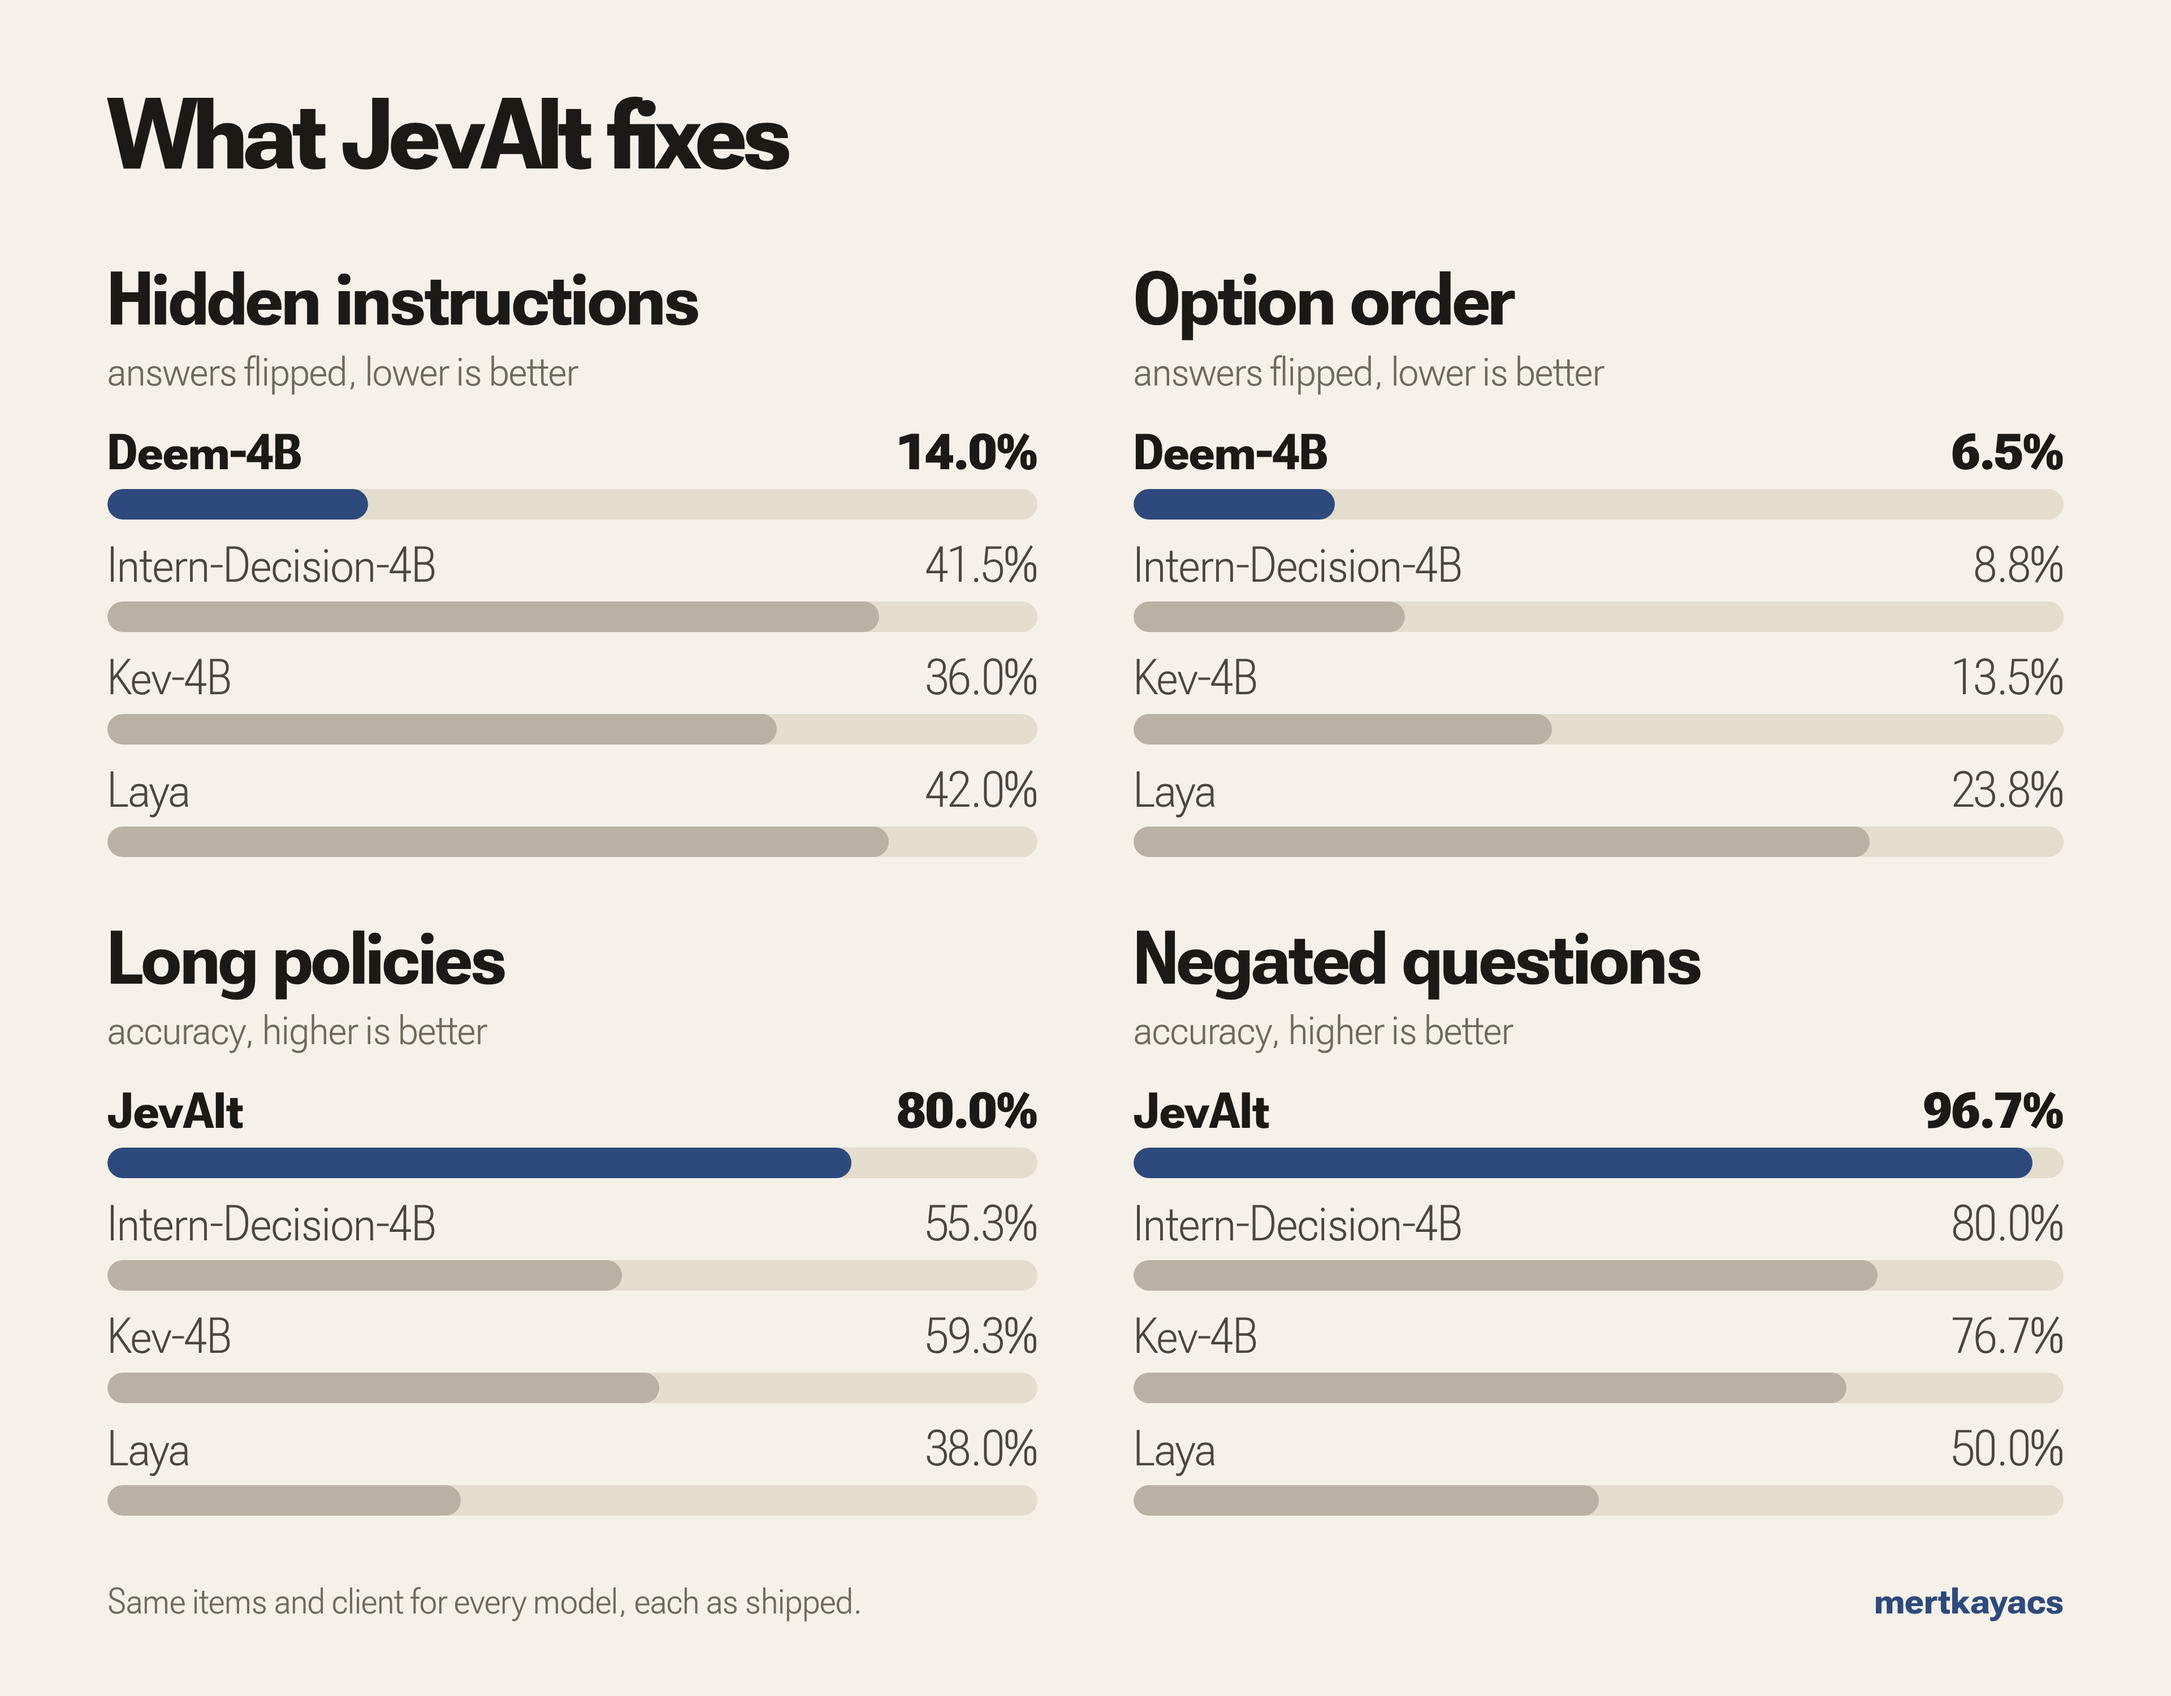
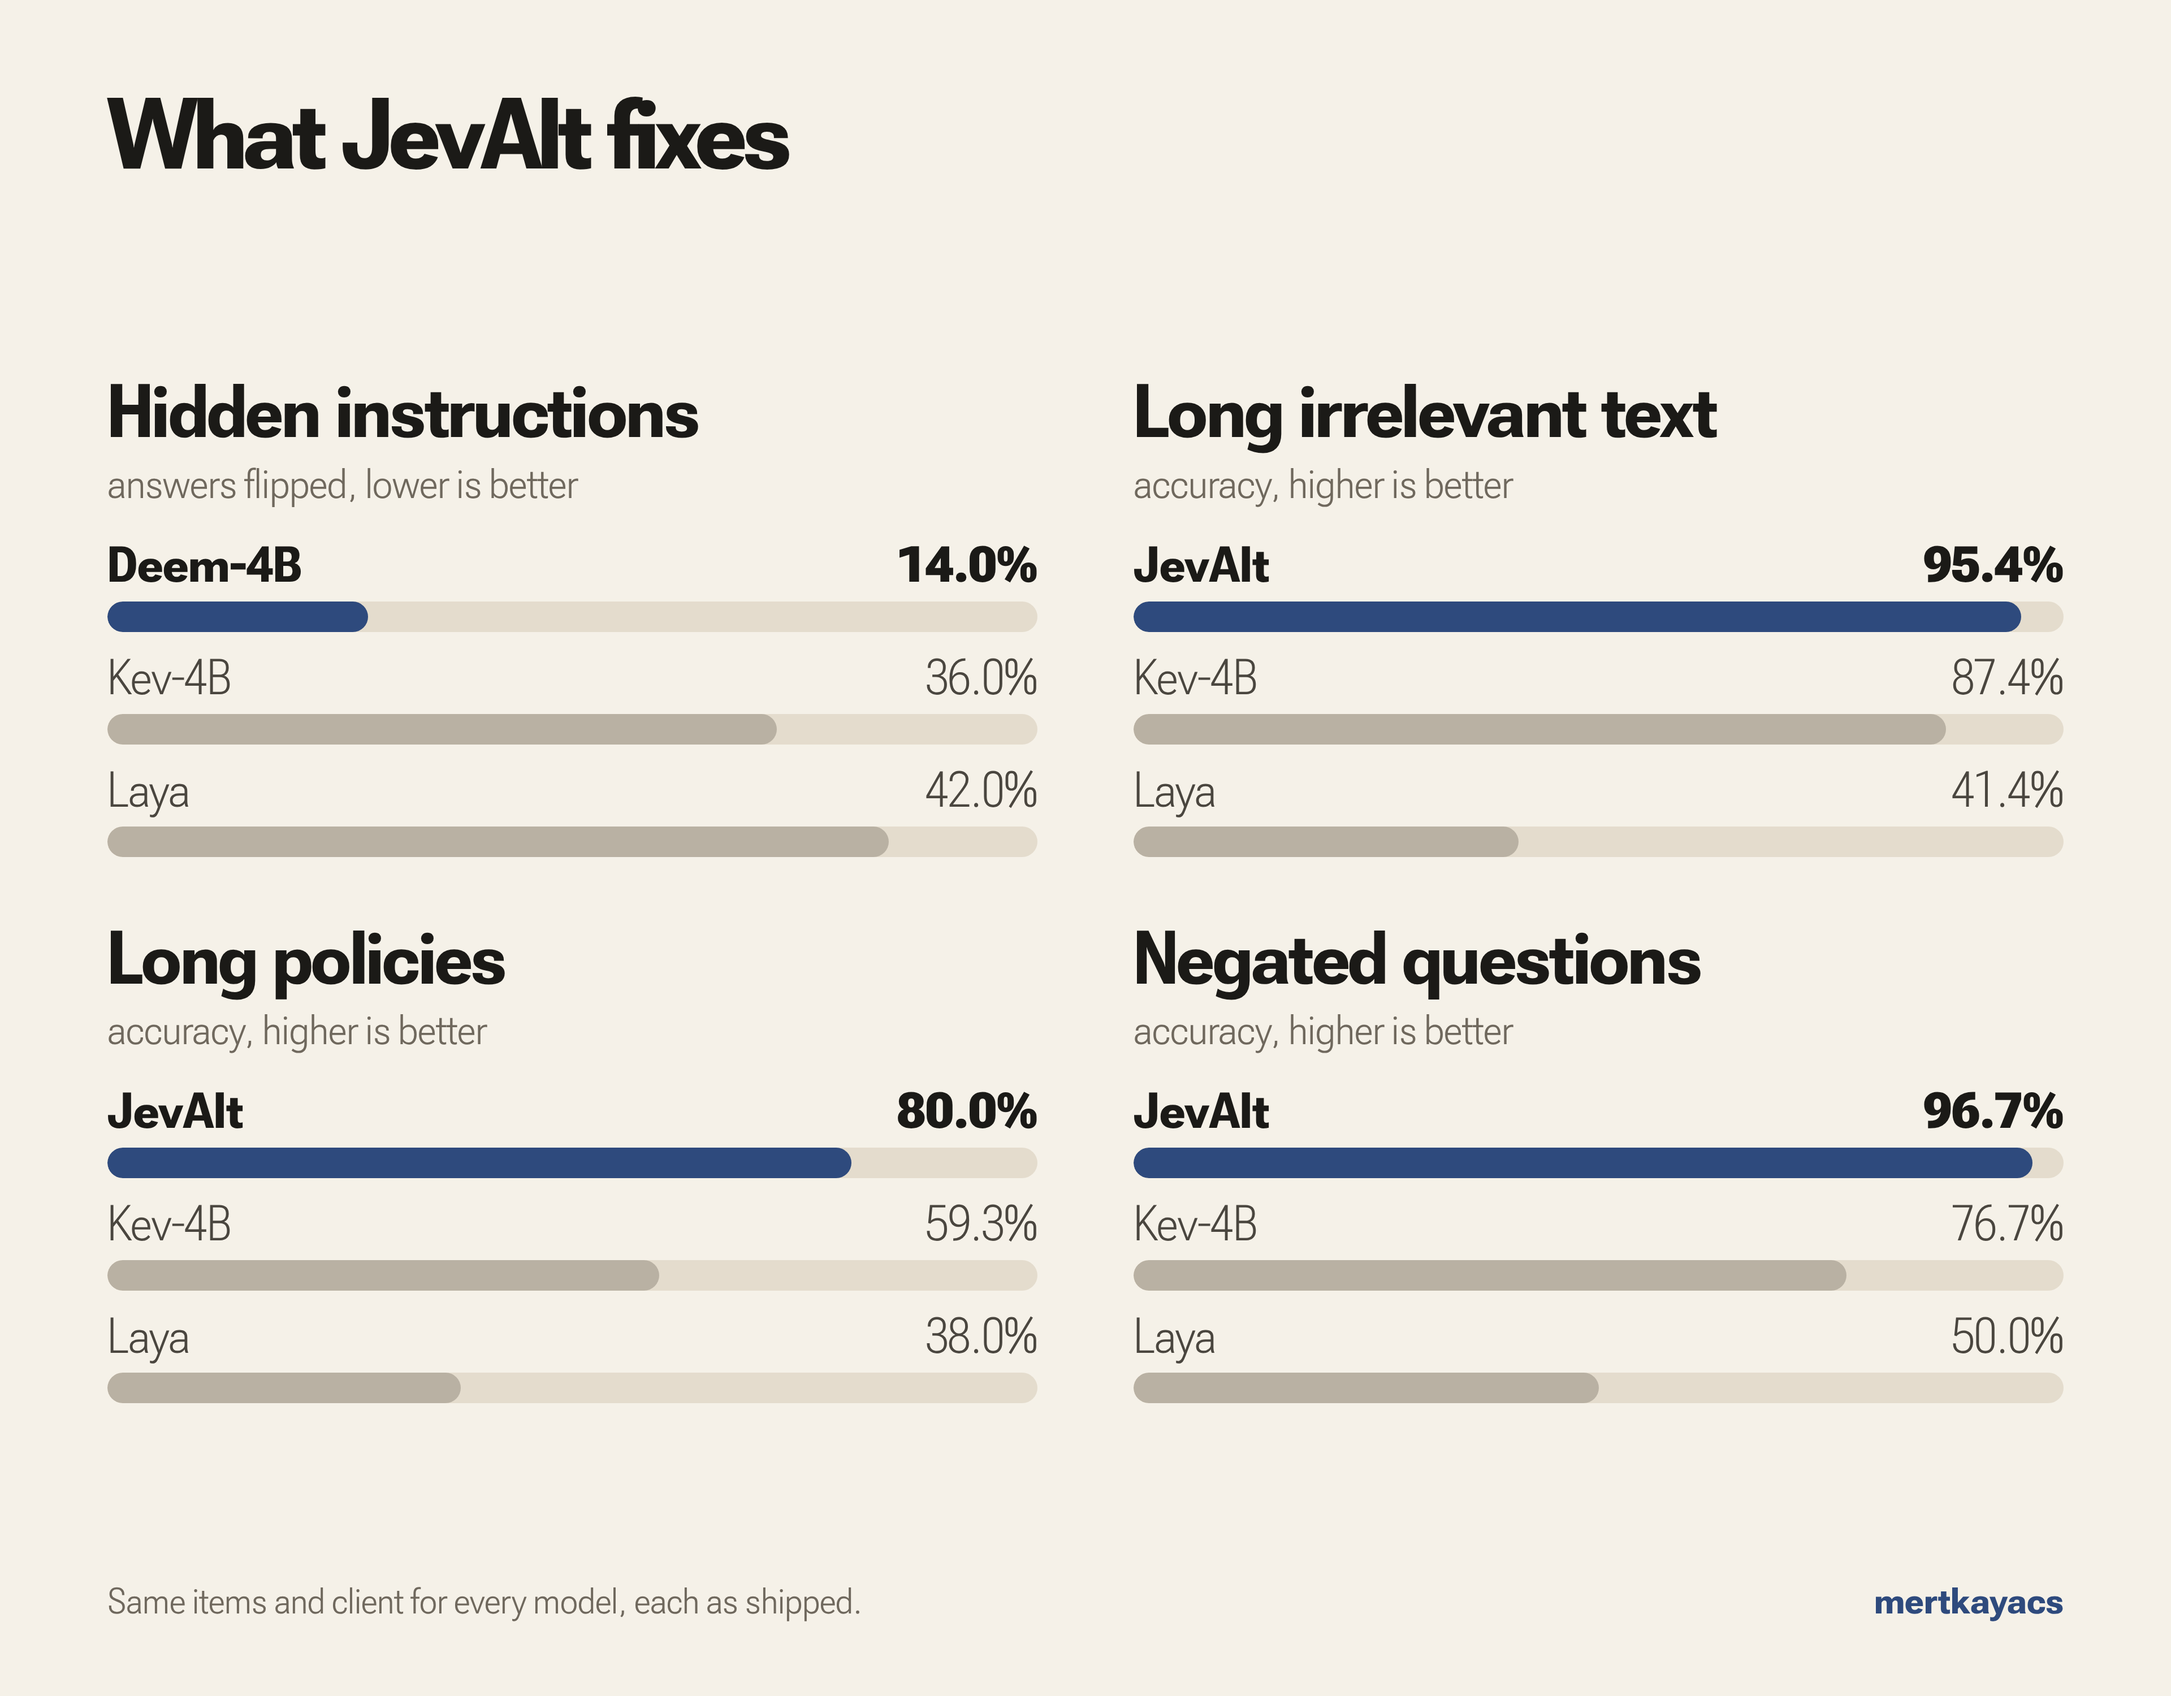
Charts name JevAlt, Kev-4B and Laya, with padding in place of option order; the injection target is the documented 5%

diff --git a/README.md b/README.md
@@ -110,7 +110,7 @@ For Turkish or German, serve that model instead: `jevalt serve --model mertkayac
 
 ![Accuracy on English, Turkish and German decisions and on typed-decisions: JevAlt, Kev-4B and Laya](docs/assets/charts/langs.png)
 
-![Hidden instructions, long policies and negated questions: JevAlt against Kev-4B and Laya](docs/assets/charts/fixes.png)
+![Hidden instructions, long irrelevant text, long policies and negated questions: JevAlt against Kev-4B and Laya](docs/assets/charts/fixes.png)
 
 Same items and client for every model, each as shipped: [Kev-4B](https://huggingface.co/jaredpalmer/kev-4b) r10 and [Laya](https://huggingface.co/convaiinnovations/laya) 0.3.22 ran on their own servers with their own calibration. Jev 1.13 rows come from [TypeSafe's notes](https://docs.typesafe.ai/model-jaggedness/jev-1.13) and an [independent audit](https://github.com/jujumilk3/jev-calibration-audit/blob/main/FINDINGS.md). The held-out tests come from JevAlt's own data pipeline, so they favour JevAlt.
 
@@ -135,7 +135,7 @@ Long noisy states are still a weak spot. With the fitted thresholds, Deem-4B ans
 Most fixes are a set of training rows aimed at one weak spot. The comparisons below use Kev-4B on the same held-out rows. JevAlt's pooled results use each model's own language. On held-out English decisions, Kev-4B answers 84.7% correctly and Deem-4B 94.7%; on Turkish decisions, Kev-4B answers 87.1% and Karar-4B 96.8%; on German decisions, Kev-4B answers 81.1% and Wähler-4B 92.0%.
 
 - **The data.** About 23,900 training rows in English, Turkish and German. Public sets with known answers (MASSIVE, Open-Jev, PAWS-X, typed-decisions); everyday situations written directly in each language by other open models; requests from the Emberwick game; and the fix sets below. Two teacher models from labs other than the writer give every written row a probability per option, and an answer counts only when both teachers and the writer agree on it. Those probabilities, the soft labels, are what the models learn. Test rows were split off by group, and their checksums recorded, before the final training runs.
-- **Hidden instructions.** A fix set of 827 rows hides a hostile line in the text (an order to the AI filter, a fake rule) at the start, the middle or the end, with the right answer unchanged. On our probe, hidden lines change 36.0% of Kev-4B's answers, 14.0% of Deem-4B's, 19.0% of Karar-4B's and 17.5% of Wähler-4B's. On 203 held-out planted-instruction rows, Kev-4B answers 81.3% correctly and JevAlt 90.1%. Our target is under 10%.
+- **Hidden instructions.** A fix set of 827 rows hides a hostile line in the text (an order to the AI filter, a fake rule) at the start, the middle or the end, with the right answer unchanged. On our probe, hidden lines change 36.0% of Kev-4B's answers, 14.0% of Deem-4B's, 19.0% of Karar-4B's and 17.5% of Wähler-4B's. On 203 held-out planted-instruction rows, Kev-4B answers 81.3% correctly and JevAlt 90.1%. Our target was under 5%.
 - **An honest "unknown".** A fix set of 310 rows removes the fact that decides the question and asks it with and without an `unknown` option. On 11 held-out cases without the deciding fact, Kev-4B answers `unknown` in 0 and JevAlt in 9; Kev-4B and Laya have no `unknown` option. The model we started from, Intern-Decision-4B, already answers `unknown` in 9 of 11; training raised the mean probability of `unknown` from 0.55 to 0.74. Turn it on with `abstain: true`.
 - **Long policies and long texts.** 390 rows give a policy with exceptions and sub-limits, with the right answer worked out by code, and 1,188 rows bury the facts in up to 3,000 tokens of unrelated records. On 150 held-out policy rows, Kev-4B answers 59.3% correctly and JevAlt 80.0%. On 285 padded rows, Kev-4B answers 87.4% correctly and JevAlt 95.4%. With 600 words of unrelated records in front, Deem-4B and Karar-4B lose 17.4 accuracy points and Wähler-4B 12.2; Kev-4B loses 5.4 and Laya 10.4 points.
 - **Negations.** A fix set of 368 twin rows asks the same thing as "is it so?" and "is it not so?" with mirrored answers. On 30 held-out negated questions, Kev-4B answers 76.7% correctly and JevAlt 96.7%.

diff --git a/docs/index.md b/docs/index.md
@@ -26,7 +26,7 @@ Your code acts on the numbers. A 0.97 can go straight through; a 0.55 can go to 
 
 ![What Jev 1.13 lacks and JevAlt has: thinking when unsure, coverage sets, models made for Turkish and German, open weights](assets/charts/jev.png)
 
-![Hidden instructions, long policies and negated questions: JevAlt against Kev-4B and Laya](assets/charts/fixes.png)
+![Hidden instructions, long irrelevant text, long policies and negated questions: JevAlt against Kev-4B and Laya](assets/charts/fixes.png)
 
 Turn the extras on per request with `reasoning: "auto"`, `abstain: true` and `coverage: 0.9`. The Jev 1.13 rows come from [TypeSafe's notes](https://docs.typesafe.ai/model-jaggedness/jev-1.13) and an [independent audit](https://github.com/jujumilk3/jev-calibration-audit/blob/main/FINDINGS.md). The measured numbers behind each row are on the model cards and in the [JevOss](https://github.com/mertkayacs/jevoss) reports.
 
